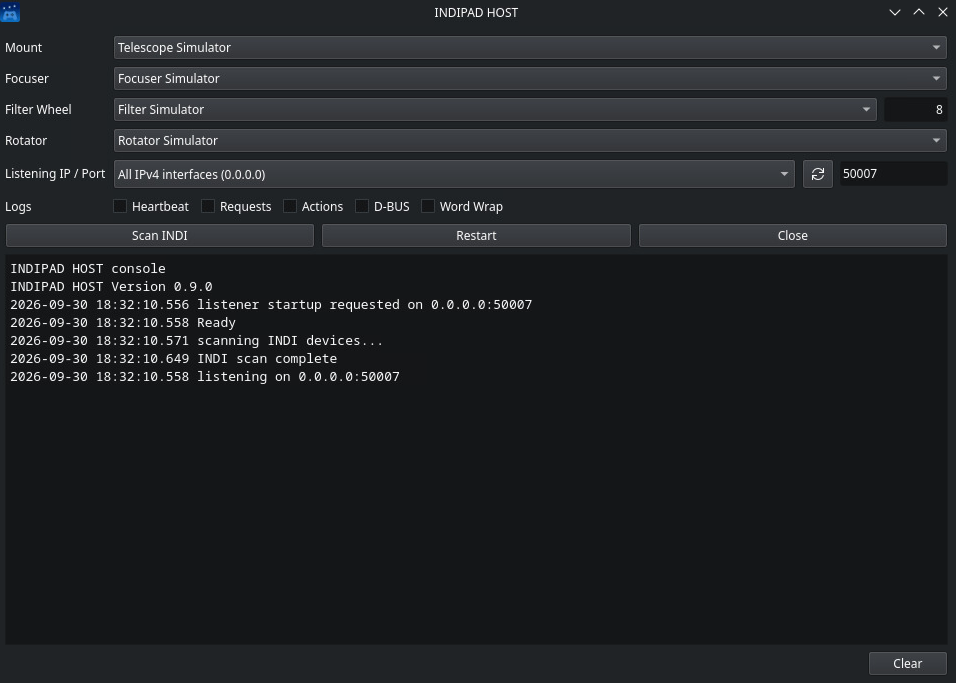
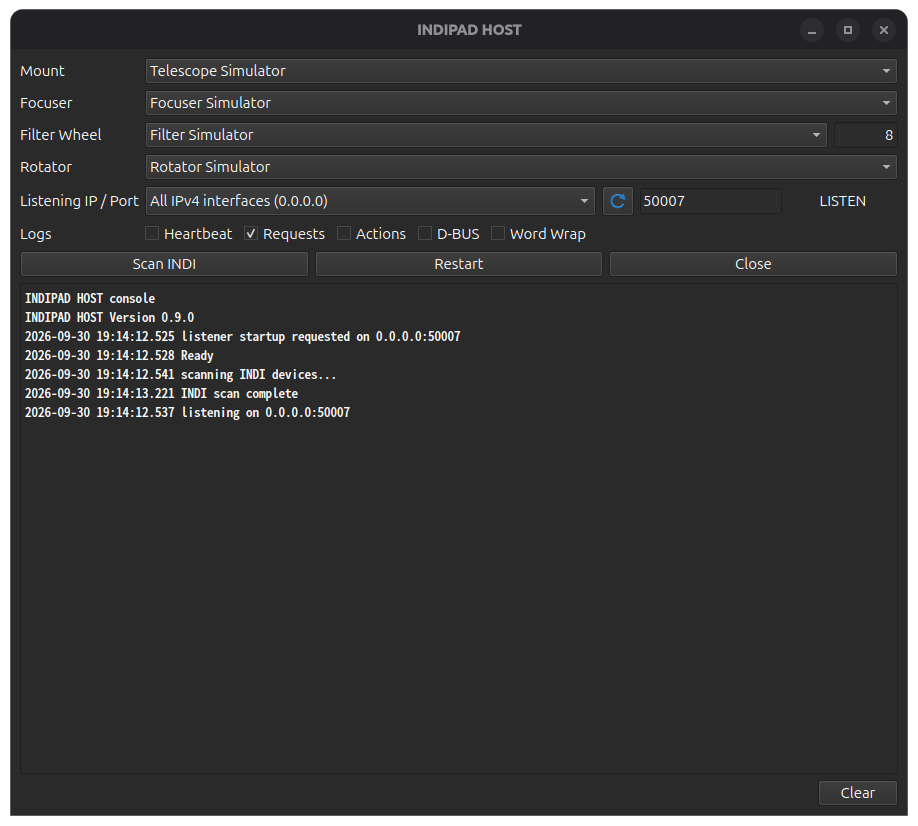
feat: add connection state reporting in Receiver and corresponding tests

Changed region(s): [[0.0, 0.0, 1.0, 1.0]]

diff --git a/remote_indipad_receiver.py b/remote_indipad_receiver.py
@@ -647,6 +647,9 @@ class QueueLogHandler:
     def emit_bind_failure(self, target: dict) -> None:
         self._messages.put(("bind_failure", dict(target)))
 
+    def emit_status(self, receiver, status: str) -> None:
+        self._messages.put(("receiver_status", receiver, status))
+
     def drain(self) -> list[Any]:
         messages = []
         while True:
@@ -1667,6 +1670,9 @@ class ReceiverWindow(QMainWindow):
         self.listen_refresh_button.setAccessibleName("Rescan network addresses")
         self.listen_refresh_button.setFixedSize(32, 30)
         self.port_edit = QLineEdit(str(self.gui_settings.get("port", 50007)))
+        self.service_status_label = QLabel("---")
+        self.service_status_label.setAlignment(Qt.AlignCenter)
+        self.service_status_label.setMinimumWidth(110)
 
         self.heartbeat_checkbox = QCheckBox("Heartbeat")
         self.heartbeat_checkbox.setChecked(bool(self.gui_settings.get("heartbeat", False)))
@@ -1693,6 +1699,7 @@ class ReceiverWindow(QMainWindow):
         host_port_row.addWidget(self.listen_combo, 1)
         host_port_row.addWidget(self.listen_refresh_button)
         host_port_row.addWidget(self.port_edit)
+        host_port_row.addWidget(self.service_status_label)
         form_layout.addRow("Listening IP / Port", host_port_row)
         logs_row = QHBoxLayout()
         for checkbox in (
@@ -1764,6 +1771,10 @@ class ReceiverWindow(QMainWindow):
         for message in self.log_queue.drain():
             if isinstance(message, tuple) and len(message) == 2 and message[0] == "bind_failure":
                 self._mark_listen_target_unavailable(message[1])
+                continue
+            if isinstance(message, tuple) and len(message) == 3 and message[0] == "receiver_status":
+                if message[1] is self.receiver:
+                    self.service_status_label.setText(message[2])
                 continue
             self._append_log(message)
 
@@ -2049,6 +2060,7 @@ class ReceiverWindow(QMainWindow):
             family=str(target.get("family", "ipv4")),
             log_callback=self.log_queue.emit,
             bind_failure_callback=self.log_queue.emit_bind_failure,
+            status_callback=self.log_queue.emit_status,
         )
         self.receiver_thread = self.receiver.start()
         self.log(f"listener startup requested on {self._format_listen_address(target)}:{port}")
@@ -2057,6 +2069,8 @@ class ReceiverWindow(QMainWindow):
         target = self._revalidate_listen_target(self._selected_listen_target())
         if target is None:
             return
+        self.service_status_label.setText("---")
+        self.service_status_label.repaint()
         host = str(target.get("address", HOST))
         port_text = self.port_edit.text().strip() or "50007"
         try:
@@ -2079,6 +2093,7 @@ class ReceiverWindow(QMainWindow):
             family=str(target.get("family", "ipv4")),
             log_callback=self.log_queue.emit,
             bind_failure_callback=self.log_queue.emit_bind_failure,
+            status_callback=self.log_queue.emit_status,
         )
         self.receiver_thread = self.receiver.start()
         self.log(f"listener restart requested on {self._format_listen_address(target)}:{port}")
@@ -2616,7 +2631,7 @@ def dispatch_abstract_action(action: str, pressed: bool, source: str = "unknown"
 
 # Receiver class for handling incoming connections and dispatching actions.
 class Receiver:
-    def __init__(self, host: str = HOST, port: int = PORT, heartbeat_timeout: float = 5.0, log_heartbeat: bool = False, log_requests: bool = False, log_actions: bool = False, log_dbus: bool = False, log_callback=None, family: str | int | None = None, scope_id: int = 0, interface_name: str = "", bind_failure_callback=None):
+    def __init__(self, host: str = HOST, port: int = PORT, heartbeat_timeout: float = 5.0, log_heartbeat: bool = False, log_requests: bool = False, log_actions: bool = False, log_dbus: bool = False, log_callback=None, family: str | int | None = None, scope_id: int = 0, interface_name: str = "", bind_failure_callback=None, status_callback=None):
         host = str(host or HOST).strip()
         host_address, separator, host_scope = host.partition("%")
         if separator and not scope_id:
@@ -2658,6 +2673,7 @@ class Receiver:
         set_dbus_logging(self.log_dbus)
         self.log_callback = log_callback
         self.bind_failure_callback = bind_failure_callback
+        self.status_callback = status_callback
         self._stop_event = threading.Event()
         self._thread = None
         self._server_socket = None
@@ -2673,6 +2689,13 @@ class Receiver:
             except Exception:
                 pass
         print(str(message), flush=True)
+
+    def _emit_status(self, status: str) -> None:
+        if self.status_callback is not None:
+            try:
+                self.status_callback(self, status)
+            except Exception:
+                pass
 
     @staticmethod
     def heartbeat_is_lost(last_seen: float, heartbeat_timeout: float, now: Optional[float] = None) -> bool:
@@ -2739,6 +2762,7 @@ class Receiver:
                         pass
                 return
             server.listen(5)
+            self._emit_status("LISTEN")
             display_host = self.host
             if self.family == socket.AF_INET6:
                 if self.scope_id and "%" not in display_host:
@@ -2756,6 +2780,7 @@ class Receiver:
                     continue
 
                 with conn:
+                    self._emit_status(f"ESTABLISHED {addr[0]}")
                     self._emit_log(f"connected from {addr}")
                     conn.settimeout(0.5)
                     heartbeat_lost = False
@@ -2824,6 +2849,8 @@ class Receiver:
                                 print_debug_json("json", obj)
                             except json.JSONDecodeError as exc:
                                 self._emit_log(f"invalid json: {line} ({exc})")
+                if not self._stop_event.is_set():
+                    self._emit_status("LISTEN")
 
 
 if __name__ == "__main__":

diff --git a/tests/test_protocol.py b/tests/test_protocol.py
@@ -1,5 +1,6 @@
 import asyncio
 import io
+import queue
 import socket
 import tempfile
 import threading
@@ -14,6 +15,36 @@ import remote_indipad_sender as sender
 
 
 class ProtocolTests(unittest.TestCase):
+    def test_receiver_reports_connection_state(self):
+        probe = socket.socket()
+        probe.bind(("127.0.0.1", 0))
+        port = probe.getsockname()[1]
+        probe.close()
+
+        statuses = queue.Queue()
+        server = receiver.Receiver(
+            host="127.0.0.1",
+            port=port,
+            family="ipv4",
+            status_callback=lambda _receiver, status: statuses.put(status),
+        )
+        server.start()
+        client = None
+        try:
+            self.assertEqual(statuses.get(timeout=3), "LISTEN")
+            client = socket.create_connection(("127.0.0.1", port), timeout=3)
+            self.assertEqual(
+                statuses.get(timeout=3),
+                f"ESTABLISHED {client.getsockname()[0]}",
+            )
+            client.close()
+            client = None
+            self.assertEqual(statuses.get(timeout=3), "LISTEN")
+        finally:
+            if client is not None:
+                client.close()
+            server.stop()
+
     def test_round_trip_serialization(self):
         original = protocol.build_action_payload(action="MOUNT_NORTH", pressed=True, source="axis")
         serialized = protocol.serialize_message(original)
